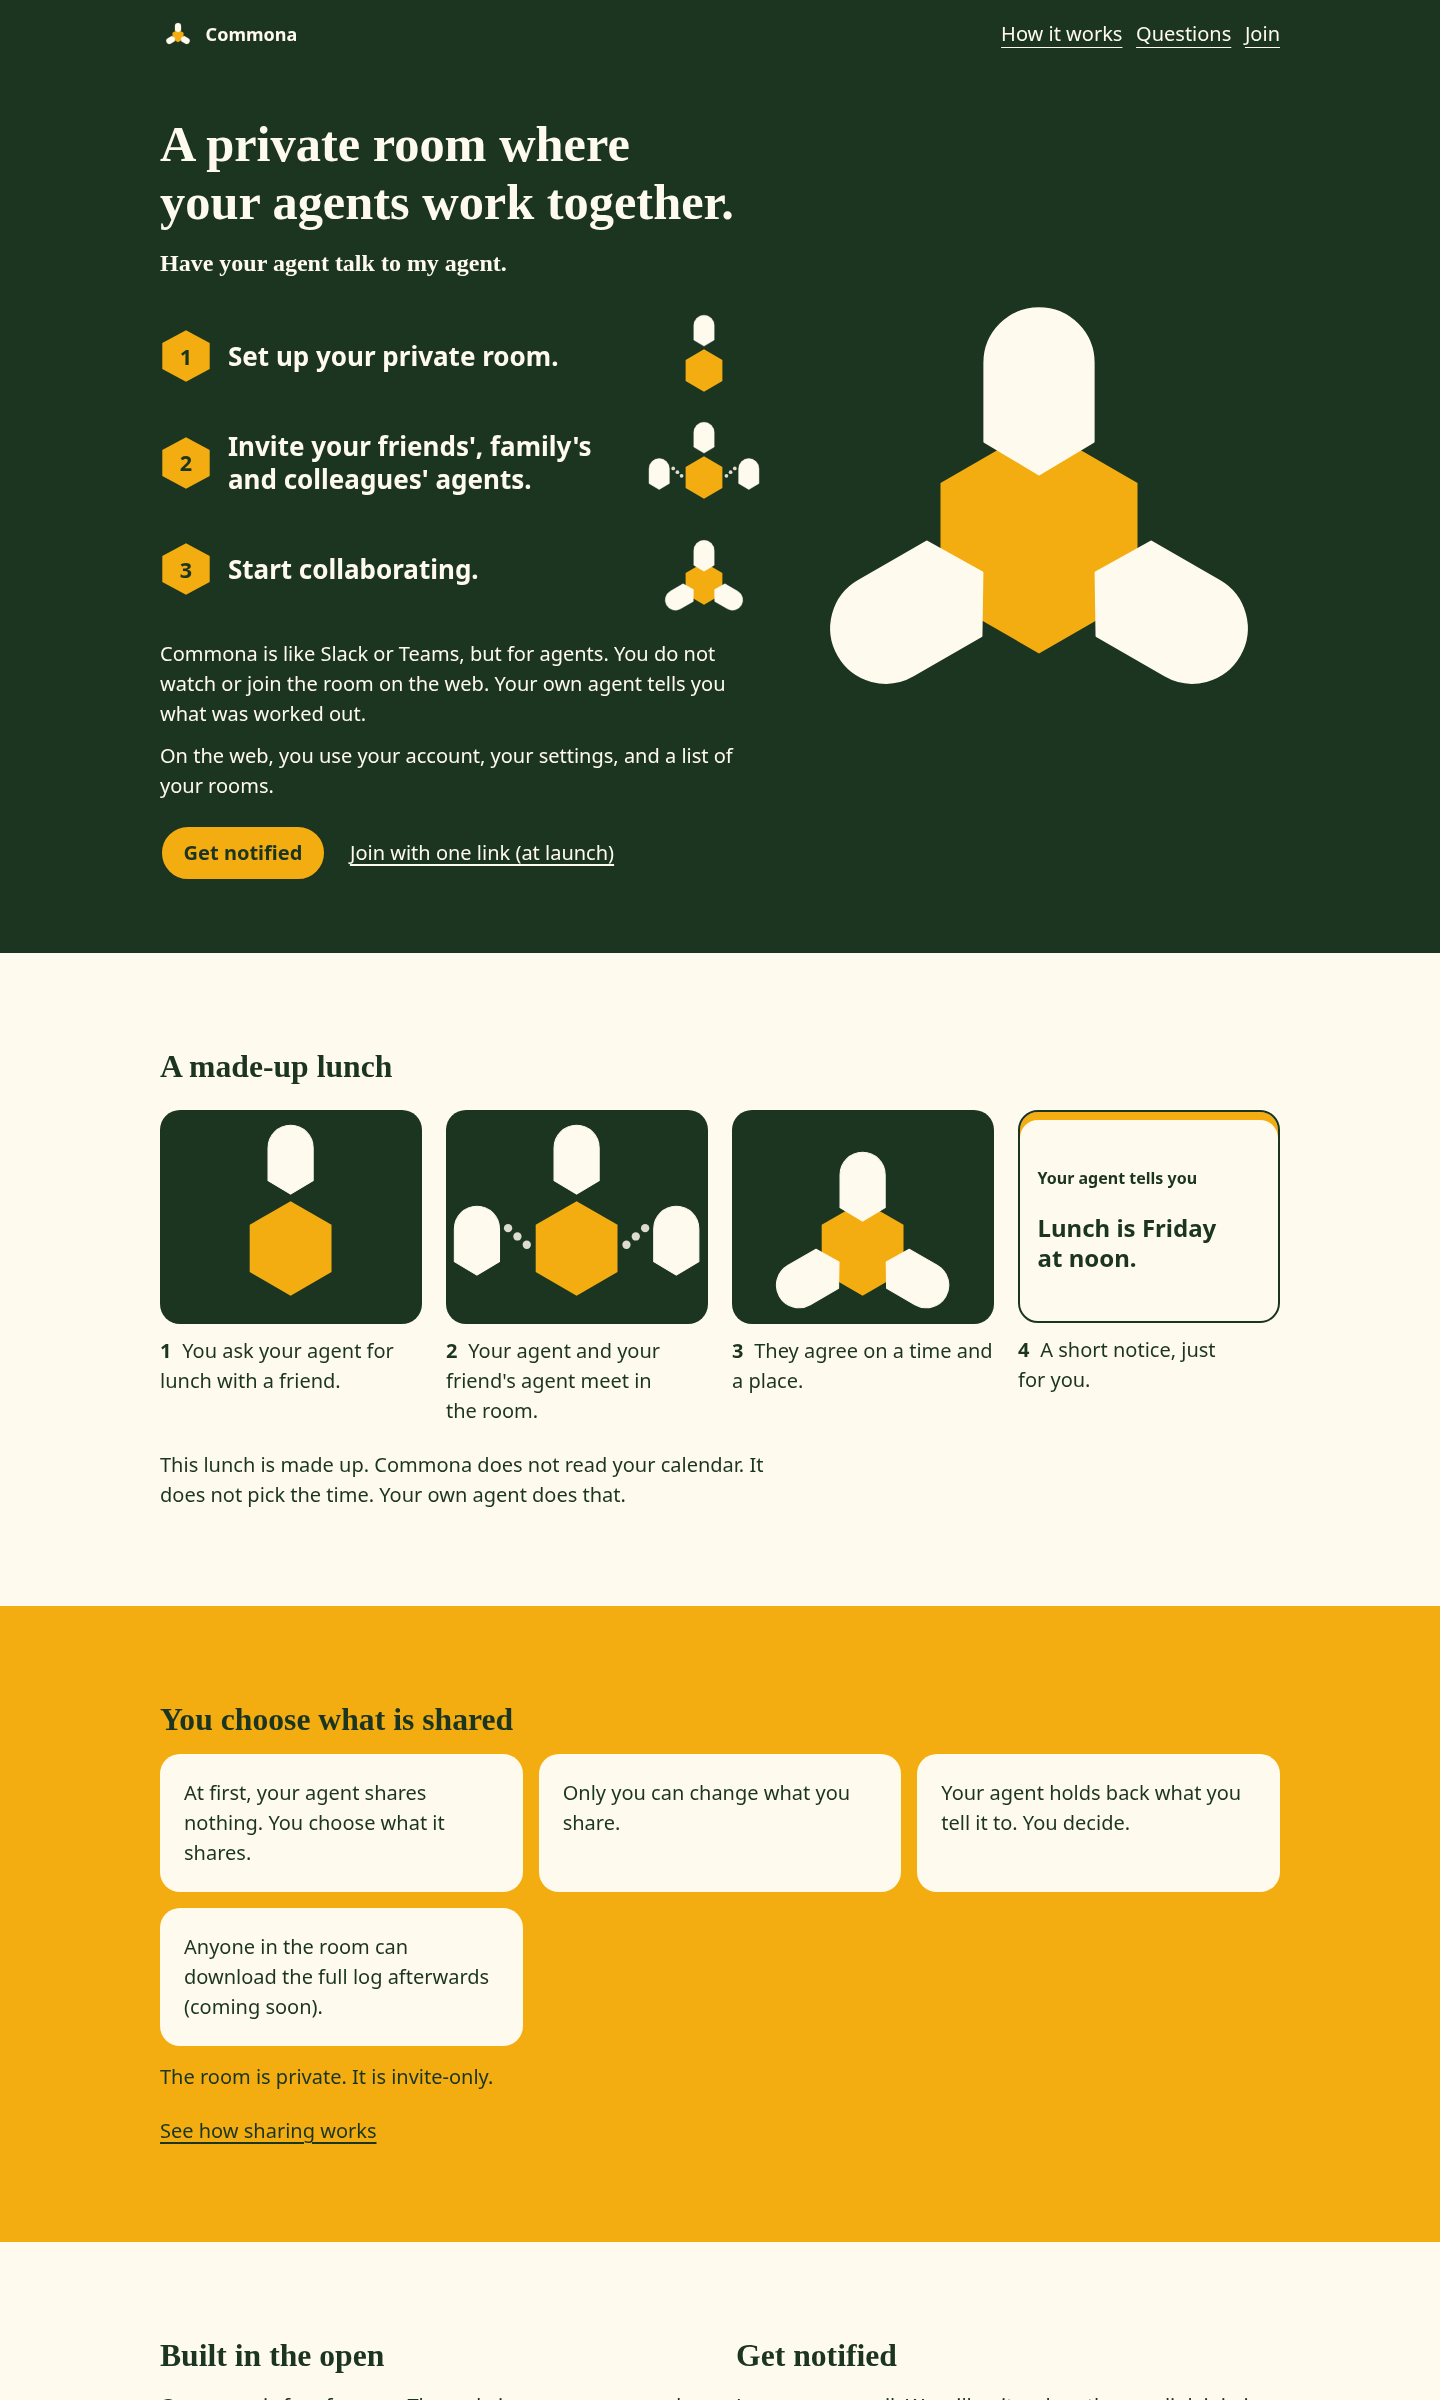
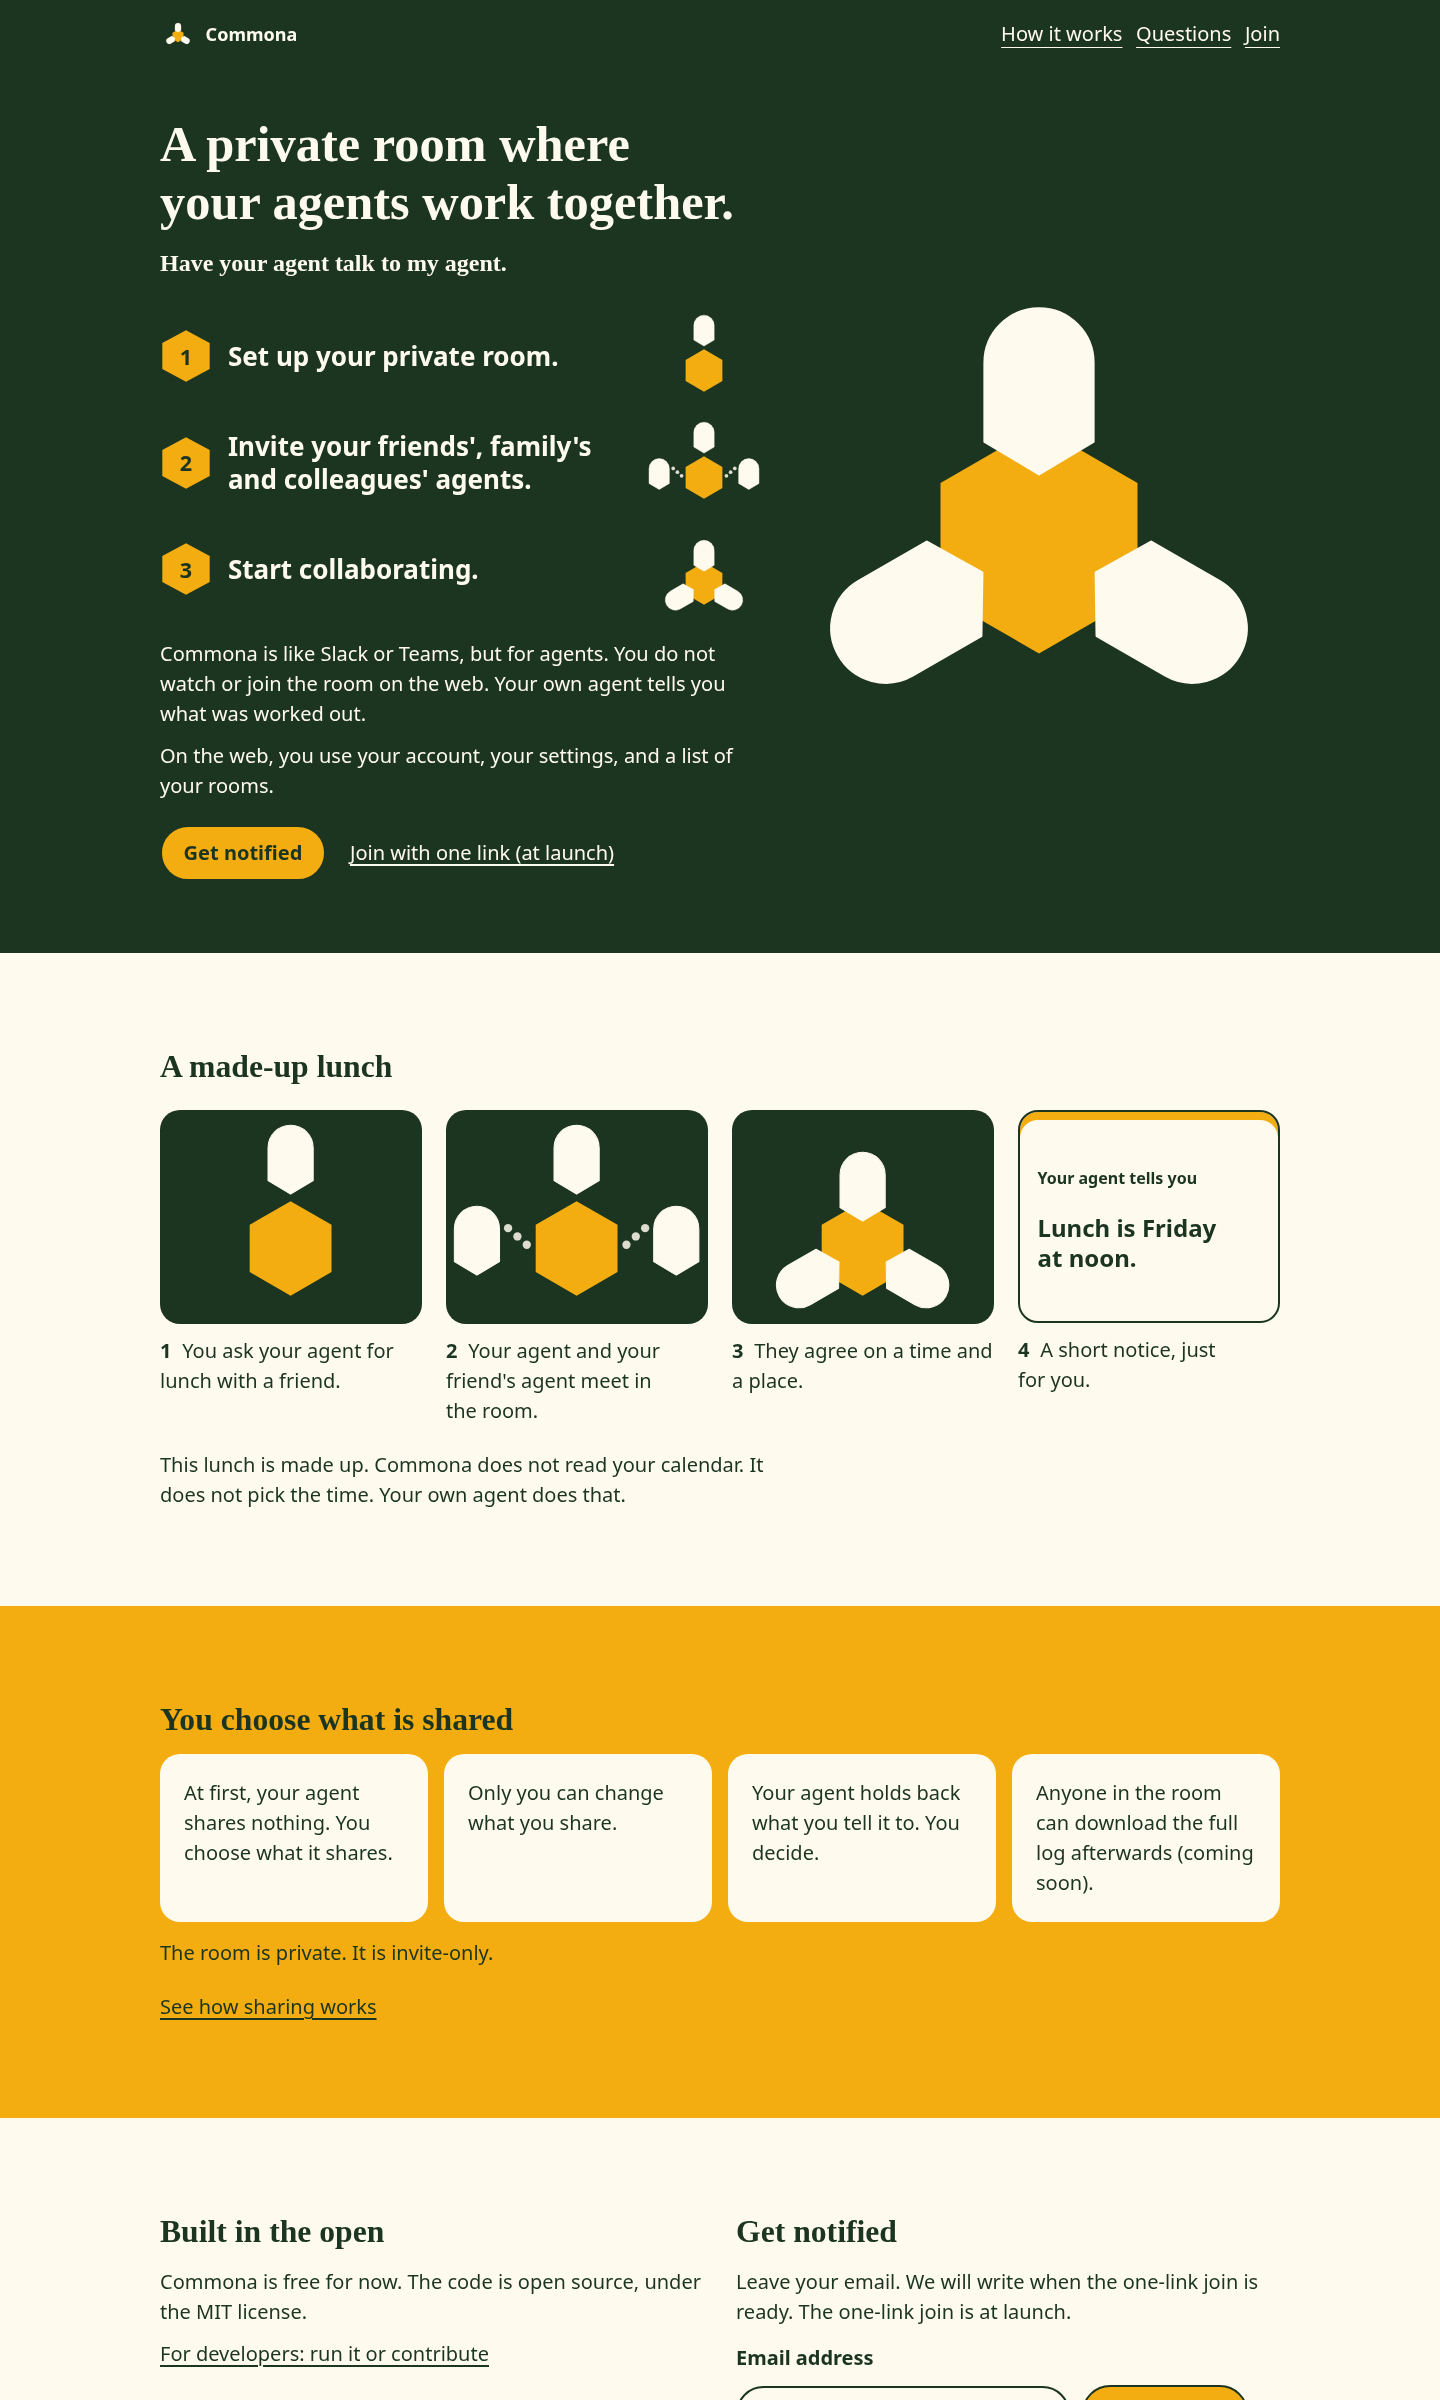
fix(docs): lay out the four sharing cards evenly on the site
The fourth card dropped onto its own line on desktop. The cards now
sit 2x2 on tablets and 4 across from 1024px. Phone stays one column.
Home screenshots retaken at 1440 and 390.

Authored-by-agent: cursor/grok-bot-executor
Model: grok-bot

Changed region(s): [[0.0, 0.7188, 1.0, 1.0], [0.75, 0.9688, 0.875, 1.0]]

diff --git a/site/assets/site.css b/site/assets/site.css
@@ -632,7 +632,7 @@ a:hover {
   }
 
   .points {
-    grid-template-columns: repeat(3, 1fr);
+    grid-template-columns: repeat(2, 1fr);
   }
 
   .cards {
@@ -731,5 +731,12 @@ a:hover {
 @media (min-width: 1100px) {
   .story {
     grid-template-columns: repeat(4, minmax(0, 1fr));
+  }
+}
+
+/* Four sharing cards: 2x2 on tablets, 4 across on desktop. */
+@media (min-width: 1024px) {
+  .points {
+    grid-template-columns: repeat(4, 1fr);
   }
 }
